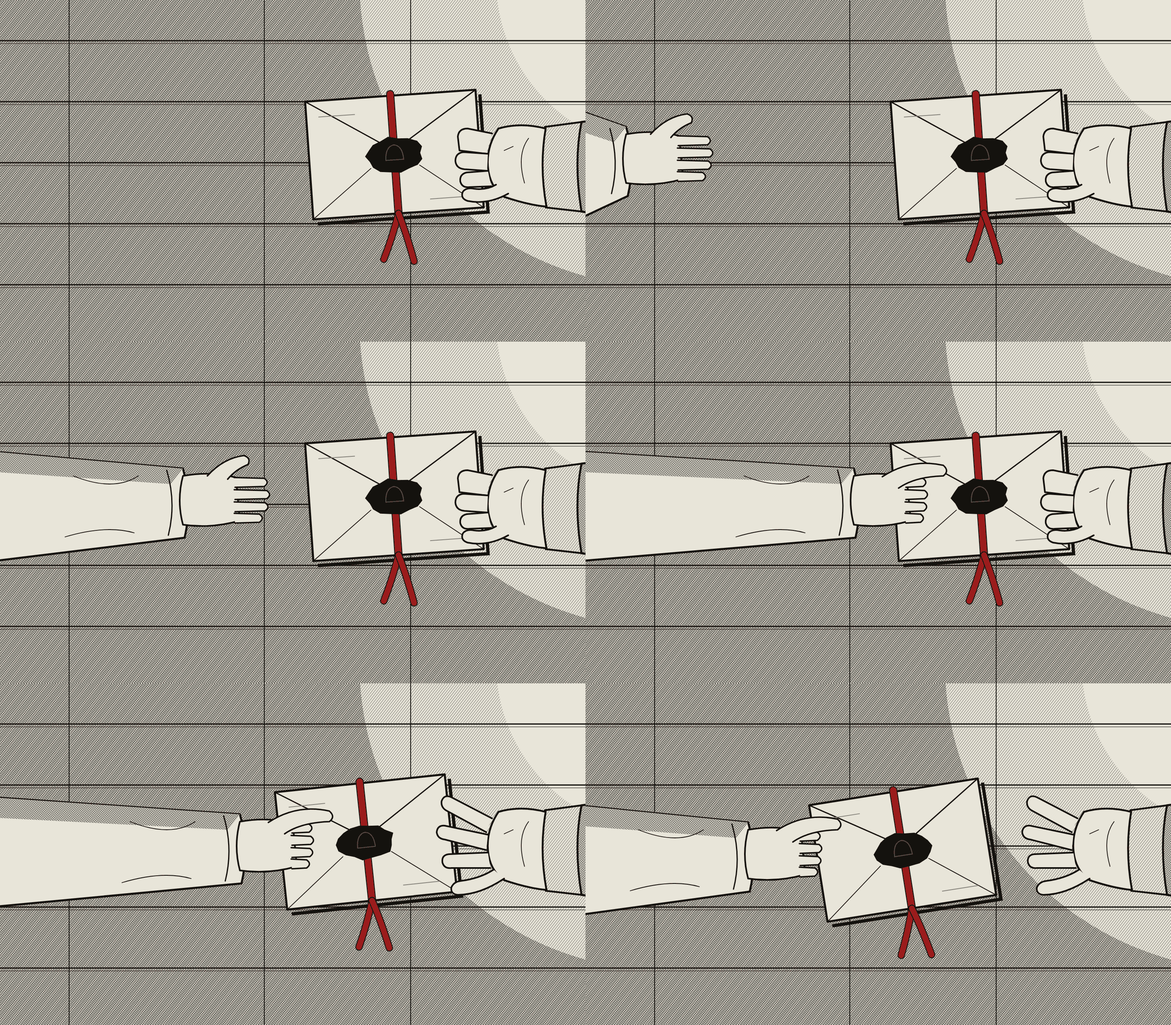
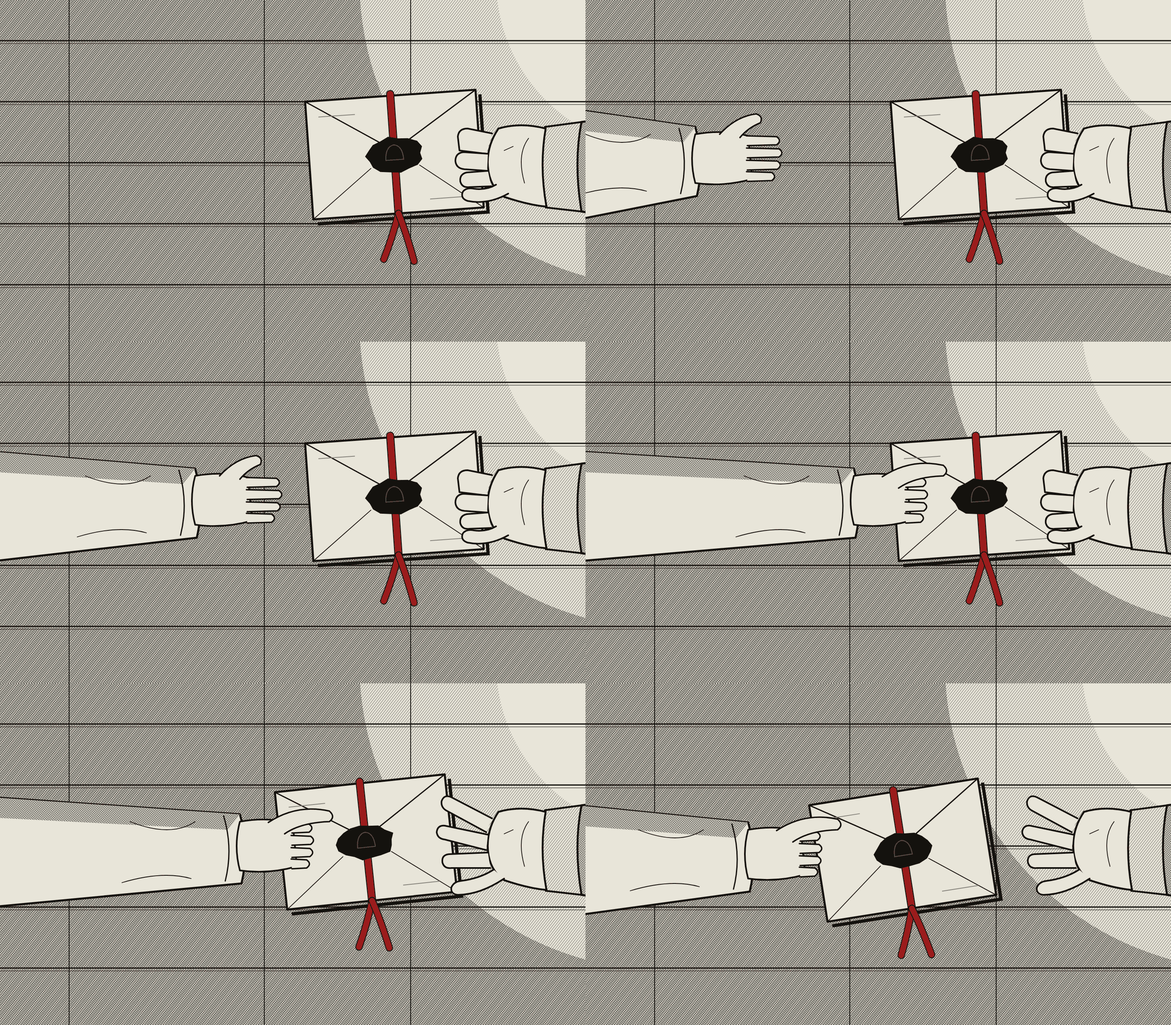
Retouches du GD : la main de Tobie entre avec son bras, Jacquot siffle sans notes
Plan A de la remise du pli : dès la 2e image, la main de Tobie entre avec sa manche, sur la
même ligne que la suite (elle sautait). Jacquot : plus de notes de musique au-dessus de la
tête, seuls les traits d'air disent le sifflement.

Claude-Session: https://claude.ai/code/session_011WbKxBfoJbcyebqrVqkEA5

Changed region(s): [[0.5, 0.0929, 0.6875, 0.2167], [0.1562, 0.4333, 0.25, 0.5262], [0.125, 0.4643, 0.1562, 0.4952]]

diff --git a/tools/gen_gestes_e1.py b/tools/gen_gestes_e1.py
@@ -4,17 +4,14 @@
 Format du Gameplay (PR #134) : chr_<perso>_<geste>_01, bande horizontale d'images de 200 x 320,
 pieds à (100, 316), jouée une fois à 10 i/s, puis retour à la respiration (repos).
 
-  art/src/chr/chr_lamarre_tendre_01.svg    6 images : la main sort le pli de la capote, le tend,
-                                           le lâche (Tobie l'a pris), redescend vide
-  art/src/chr/chr_jacquot_siffler_01.svg   6 images : il siffle l'air du dépôt, lève la main,
-                                           l'agite deux fois, la rabaisse
+  art/src/chr/chr_<perso>_<geste>_01.svg   15 gestes balisés par la Narrative (voir GESTES)
   art/src/chr/chr_tobie_grimper_01.svg     4 images, Tobie de dos sur l'échelle (cinématique de
                                            sortie de tranchée) ; calques _red et -cendre vides
                                            (ni le ruban ni le front ne se voient de dos)
   art/src/fx/fx_rideau-sape-tombe.svg      6 images de 140 x 460 : la couverture anti-gaz se
                                            soulève au passage de Tobie et retombe derrière lui
 
-Lamarre et Jacquot reprennent les dessins de tools/donnees/pnj_e1.svgfrag (repère 240 x 420, sol
+Les personnages reprennent les dessins de tools/donnees/pnj_e1.svgfrag (repère 240 x 420, sol
 à y 405, échelle 0,845) : seuls le bras qui bouge, la main et la bouche changent d'une image à
 l'autre ; la dernière image est proche du repos pour que le retour à la respiration ne saute pas.
 
@@ -217,12 +214,6 @@ J_REPOS = bras_jacquot((64, 256), (68, 288)) + main_poing(68, 288)
 J_FIN = bras_jacquot((60, 252), (64, 280)) + main_poing(64, 280)
 
 
-def note(x: float, y: float, s: float = 1.0) -> str:
-    return (f'<g transform="translate({x:.1f} {y:.1f}) scale({s})">'
-            f'<path d="M3 0 V-14 L10 -16" fill="none" stroke-width="1.5"/>'
-            f'<ellipse cx="0" cy="0" rx="3.6" ry="2.6" fill="{ENCRE}" stroke="none" transform="rotate(-20)"/></g>')
-
-
 def bouche_sifflet(n: int) -> str:
     """Lèvres en cul de poule et n petits traits d'air qui partent vers la gauche, hors du visage."""
     out = ['<circle cx="120" cy="175" r="3" fill="#E8E5DA" stroke-width="1.4"/>']
@@ -232,13 +223,14 @@ def bouche_sifflet(n: int) -> str:
 
 
 def jacquot_siffler() -> list[str]:
-    """L'air du dépôt : il siffle, deux notes s'envolent à gauche de sa tête."""
+    """L'air du dépôt : lèvres pincées, traits d'air qui s'allongent puis s'éteignent. Pas de note
+    de musique (code de bande dessinée, refusé par le GD) : le sifflement est porté par le son."""
     return [J_REPOS + bouche_sifflet(0),
             J_REPOS + bouche_sifflet(1),
-            J_REPOS + bouche_sifflet(2) + note(82, 150),
-            J_REPOS + bouche_sifflet(2) + note(74, 132, 1.1) + note(90, 150, .9),
-            J_REPOS + bouche_sifflet(1) + note(66, 112, 1.1) + note(82, 130),
-            J_REPOS + bouche_sifflet(0) + note(76, 110, .9)]
+            J_REPOS + bouche_sifflet(2),
+            J_REPOS + bouche_sifflet(3),
+            J_REPOS + bouche_sifflet(2),
+            J_REPOS + bouche_sifflet(0)]
 
 
 def jacquot_lever_main() -> list[str]:

diff --git a/tools/gen_cin_e1.py b/tools/gen_cin_e1.py
@@ -183,7 +183,7 @@ def plan_a(k: int) -> str:
     else:
         out.append(pli_grand(pli_x, pli_y, ang))
         out.append(main_lamarre(True))
-    bouts = {1: 300, 2: 650, 3: 860, 4: 790, 5: 600}
+    bouts = {1: 470, 2: 680, 3: 860, 4: 790, 5: 600}
     if k in bouts:
         out.append(main_tobie(bouts[k], pli_y + 10, prise=k >= 3))
     return "".join(out)
